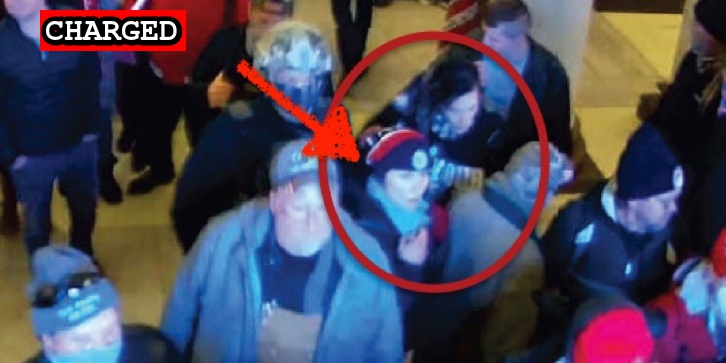
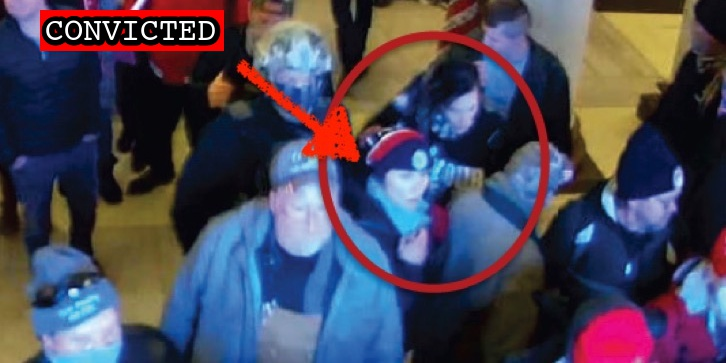
New guilty pleas

Changed region(s): [[0.0606, 0.0, 0.3333, 0.1515]]

diff --git a/docs/_suspects/cara-hentschel.md b/docs/_suspects/cara-hentschel.md
@@ -4,16 +4,18 @@ lastName: Hentschel
 hashtag:
 aka:
 residence: Missouri
-status: Charged
+status: Convicted
 date: 2021-09-22
 charged: 2021-09-22
 indicted:
-convicted:
+convicted: 2022-05-18
+acquitted:
 sentenced:
 dismissed:
 deceased:
-plea_hearing:
-sentencing:
+plea_hearing: 2022-05-18
+trial_date:
+sentencing: 2022-08-19
 age:
 occupation:
 affiliations:
@@ -25,7 +27,7 @@ courtroom:
 courthouse:
 raid:
 perpwalk:
-quote: 'I was the first group in. Yes. We storm peloskis [sic] office and took her beer. She drinks Corona'
+quote: "I was the first group in. Yes. We storm peloskis [sic] office and took her beer. She drinks Corona"
 title: Cara Hentschel charged on September 22, 2021
 description: Click for latest case details. Suspects innocent until proven guilty.
 author: seditiontrack
@@ -34,8 +36,13 @@ published: true
 caseNumber: 1:21-cr-667
 videos:
 charges:
+  - code: 40 USC § 5104(e)(2)(G)
+    title: Parading, demonstrating or picketing in a Capitol building
+    url: https://www.law.cornell.edu/uscode/text/40/5104
+    felony: false
 sentence:
 ---
+
 - [News Report](https://www.msn.com/en-us/news/us/two-women-arrested-monday-in-springfield-charged-in-jan-6-us-capitol-breach/ar-AAPddMo)
 - [Statement of Facts](https://www.justice.gov/usao-dc/case-multi-defendant/file/1457716/download)
 - [Information](https://www.justice.gov/usao-dc/case-multi-defendant/file/1457711/download)

diff --git a/docs/_suspects/mahailya-pryer.md b/docs/_suspects/mahailya-pryer.md
@@ -4,16 +4,18 @@ lastName: Pryer
 hashtag:
 aka:
 residence: Missouri
-status: Charged
+status: Convicted
 date: 2021-09-22
 charged: 2021-09-22
 indicted:
-convicted:
+convicted: 2022-05-18
+acquitted:
 sentenced:
 dismissed:
 deceased:
-plea_hearing:
-sentencing:
+plea_hearing: 2022-05-18
+trial_date:
+sentencing: 2022-08-19
 age:
 occupation:
 affiliations:
@@ -34,8 +36,13 @@ published: true
 caseNumber: 1:21-cr-667
 videos:
 charges:
+  - code: 40 USC § 5104(e)(2)(G)
+    title: Parading, demonstrating or picketing in a Capitol building
+    url: https://www.law.cornell.edu/uscode/text/40/5104
+    felony: false
 sentence:
 ---
+
 - [News Report](https://www.msn.com/en-us/news/us/two-women-arrested-monday-in-springfield-charged-in-jan-6-us-capitol-breach/ar-AAPddMo)
 - [Statement of Facts](https://www.justice.gov/usao-dc/case-multi-defendant/file/1457716/download)
 - [Information](https://www.justice.gov/usao-dc/case-multi-defendant/file/1457711/download)
